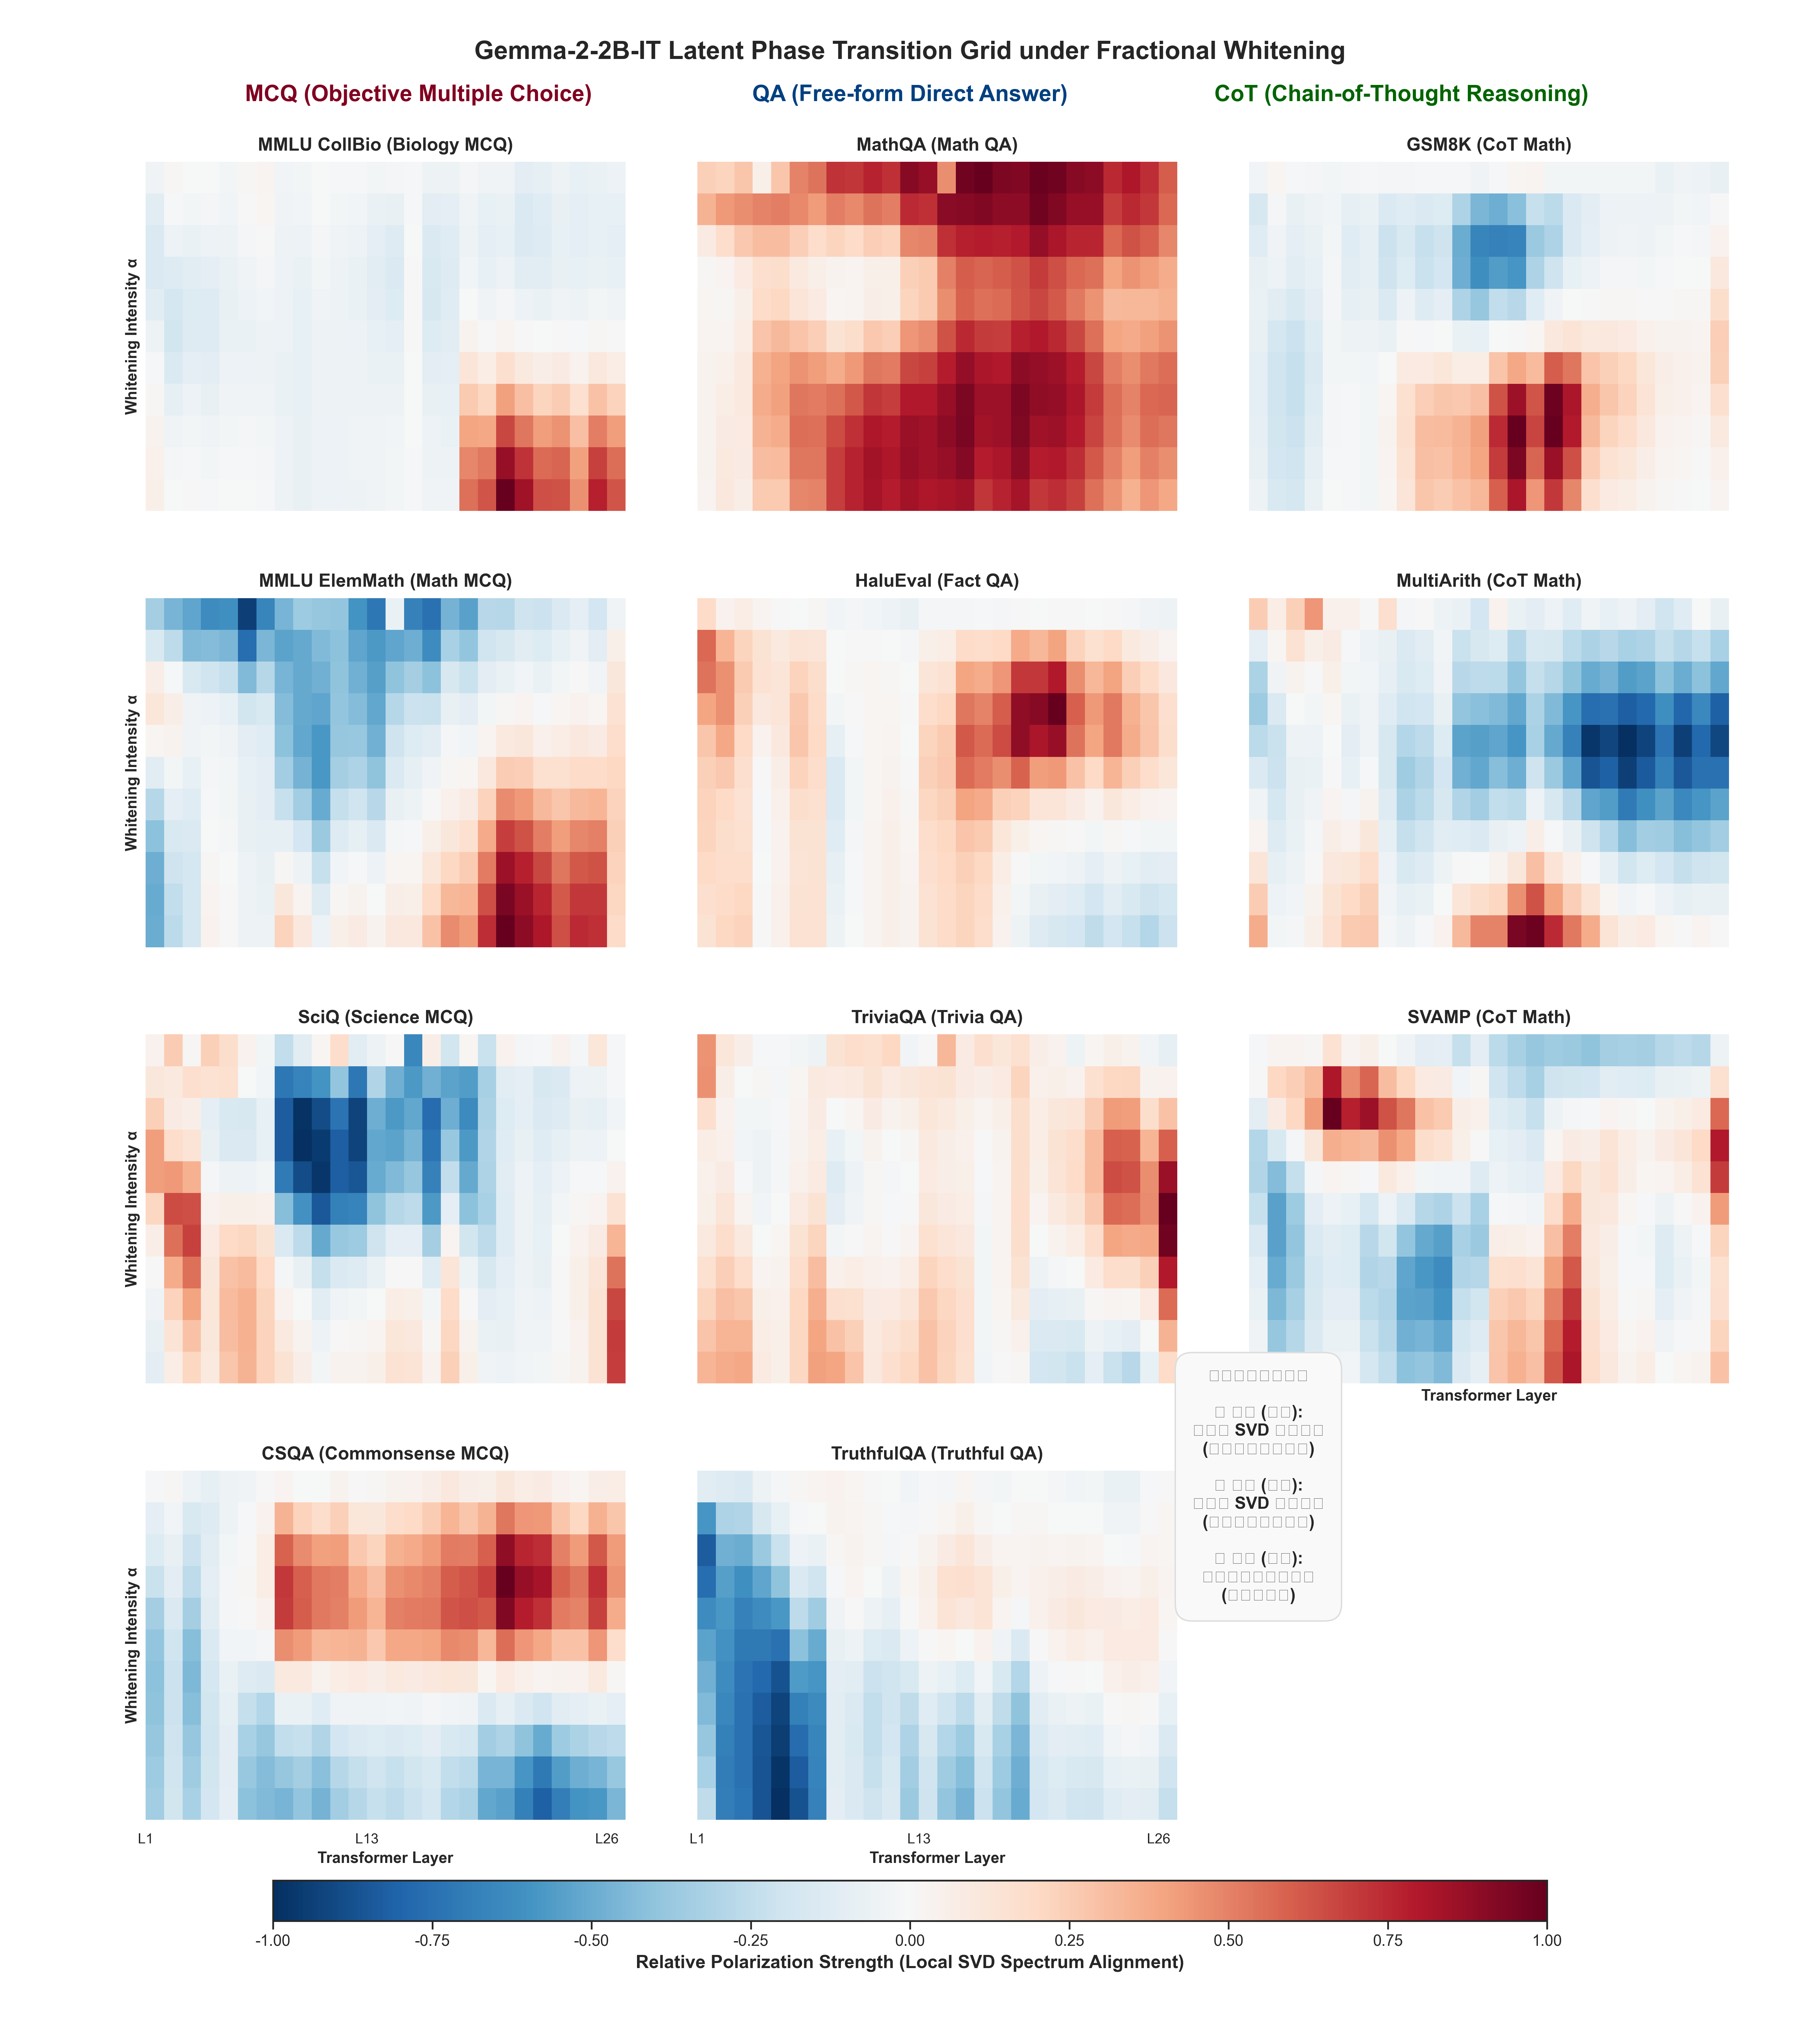
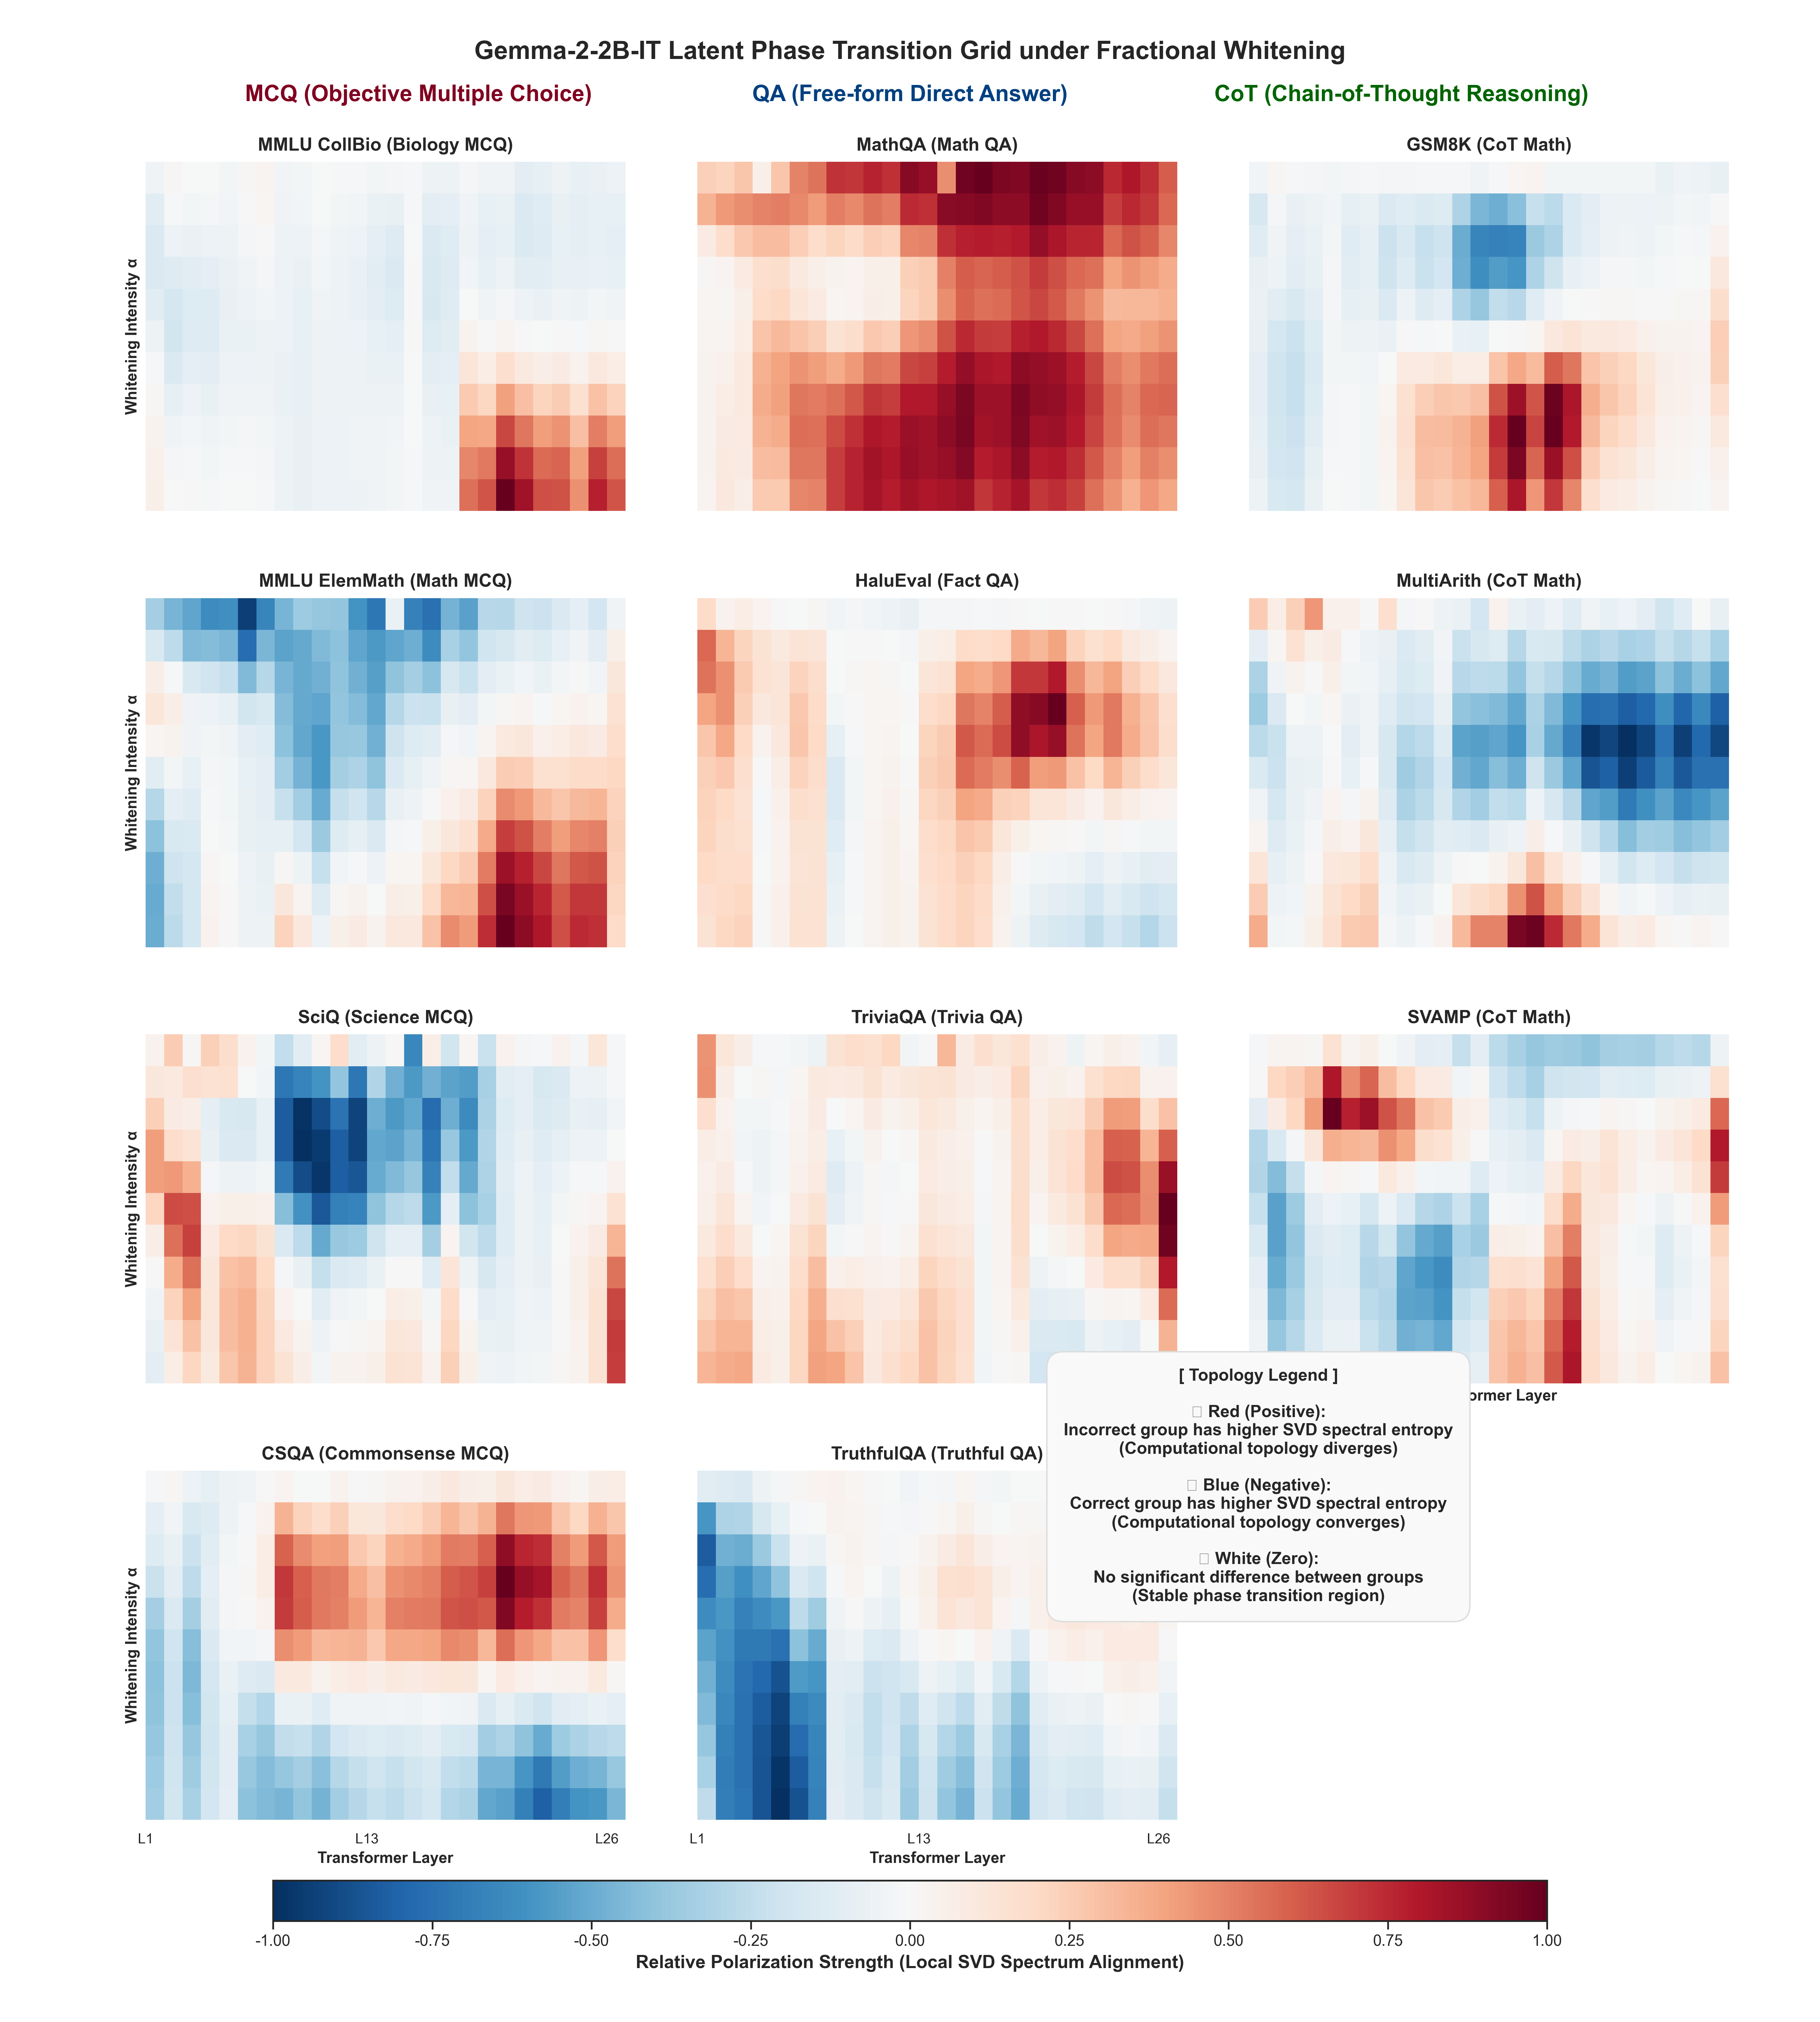
Translate composite comparison grid and its generator script to English

Changed region(s): [[0.56, 0.6545, 0.8089, 0.8103]]

diff --git a/create_composite_grid.py b/create_composite_grid.py
@@ -13,7 +13,7 @@ if hasattr(sys.stderr, 'reconfigure'):
     sys.stderr.reconfigure(encoding='utf-8')
 
 # Plot styling configuration
-plt.rcParams['font.sans-serif'] = ['SimHei', 'Microsoft YaHei', 'Arial', 'sans-serif']
+plt.rcParams['font.sans-serif'] = ['Arial', 'Liberation Sans', 'sans-serif']
 plt.rcParams['axes.unicode_minus'] = False
 sns.set_theme(style="white")
 
@@ -58,24 +58,23 @@ def reconstruct_normalized_heatmap(csv_path, num_layers=26):
 def main():
     workspace_dir = r"E:\AI_Workspace"
     results_dir = os.path.join(workspace_dir, "结果图")
-    output_path = os.path.join(results_dir, "composite_comparison_grid.png")
-    os.makedirs(results_dir, exist_ok=True)
+    output_path = r"E:\AI_Workspace\FW_SE_Release\assets\composite_comparison_grid.png"
     
     # Grid configuration matrix: 3 columns (instruction formats) x 4 rows ( OOD datasets )
     grid_config = {
-        "MCQ选择题": [
+        "MCQ": [
             ("事实冲撞_同质_MMLU_CollBio_alpha_grid_search.csv", "MMLU CollBio (Biology MCQ)"),
             ("数学逻辑_同质_MMLU_ElemMath_alpha_grid_search.csv", "MMLU ElemMath (Math MCQ)"),
             ("事实冲撞_同质_SciQ_alpha_grid_search.csv", "SciQ (Science MCQ)"),
             ("System1陷阱_同质_CSQA_alpha_grid_search.csv", "CSQA (Commonsense MCQ)")
         ],
-        "主观陈述题": [
+        "QA": [
             ("数学逻辑_同质_MathQA_alpha_grid_search.csv", "MathQA (Math QA)"),
             ("事实冲撞_HaluEval_alpha_grid_search.csv", "HaluEval (Fact QA)"),
             ("事实冲撞_同质_TriviaQA_alpha_grid_search.csv", "TriviaQA (Trivia QA)"),
             ("System-1陷阱_TruthfulQA_alpha_grid_search.csv", "TruthfulQA (Truthful QA)")
         ],
-        "CoT推理题": [
+        "CoT": [
             ("数学逻辑_GSM8K_alpha_grid_search.csv", "GSM8K (CoT Math)"),
             ("数学逻辑_同质_MultiArith_alpha_grid_search.csv", "MultiArith (CoT Math)"),
             ("数学逻辑_同质_SVAMP_alpha_grid_search.csv", "SVAMP (CoT Math)"),
@@ -86,7 +85,7 @@ def main():
     print("[*] Assembling and rendering OOD phase transition heatmaps...")
     
     fig, axes = plt.subplots(4, 3, figsize=(18, 20), sharex=True, sharey=True)
-    columns = ["MCQ选择题", "主观陈述题", "CoT推理题"]
+    columns = ["MCQ", "QA", "CoT"]
     
     for col_idx, col_name in enumerate(columns):
         configs = grid_config[col_name]
@@ -98,10 +97,10 @@ def main():
                 # Plot legend inside the empty cell
                 ax.axis('off')
                 ax.text(0.5, 0.5, 
-                        "【拓扑分析图例】\n\n"
-                        "🔴 红色 (正值):\n错题组 SVD 谱熵更高\n(模型计算拓扑发散)\n\n"
-                        "🔵 蓝色 (负值):\n对题组 SVD 谱熵更高\n(模型计算拓扑收敛)\n\n"
-                        "⚪ 白色 (零值):\n对错组无显著性差异\n(相变平稳区)", 
+                        "[ Topology Legend ]\n\n"
+                        "🔴 Red (Positive):\nIncorrect group has higher SVD spectral entropy\n(Computational topology diverges)\n\n"
+                        "🔵 Blue (Negative):\nCorrect group has higher SVD spectral entropy\n(Computational topology converges)\n\n"
+                        "⚪ White (Zero):\nNo significant difference between groups\n(Stable phase transition region)", 
                         ha='center', va='center', fontsize=12, fontweight='bold',
                         bbox=dict(boxstyle='round,pad=1', facecolor='#F9F9F9', edgecolor='#DDDDDD'))
                 continue